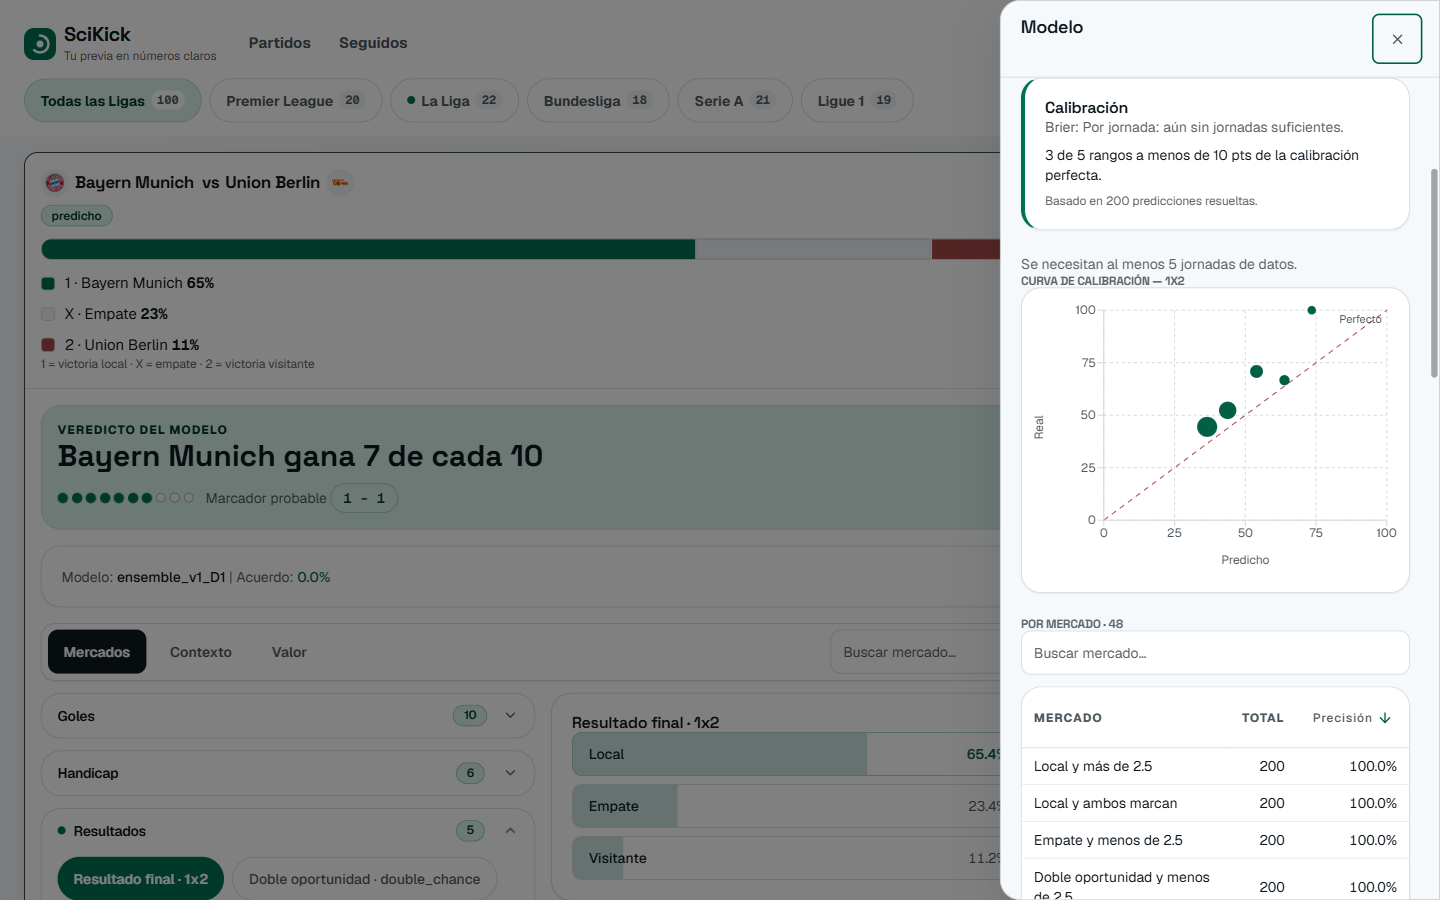
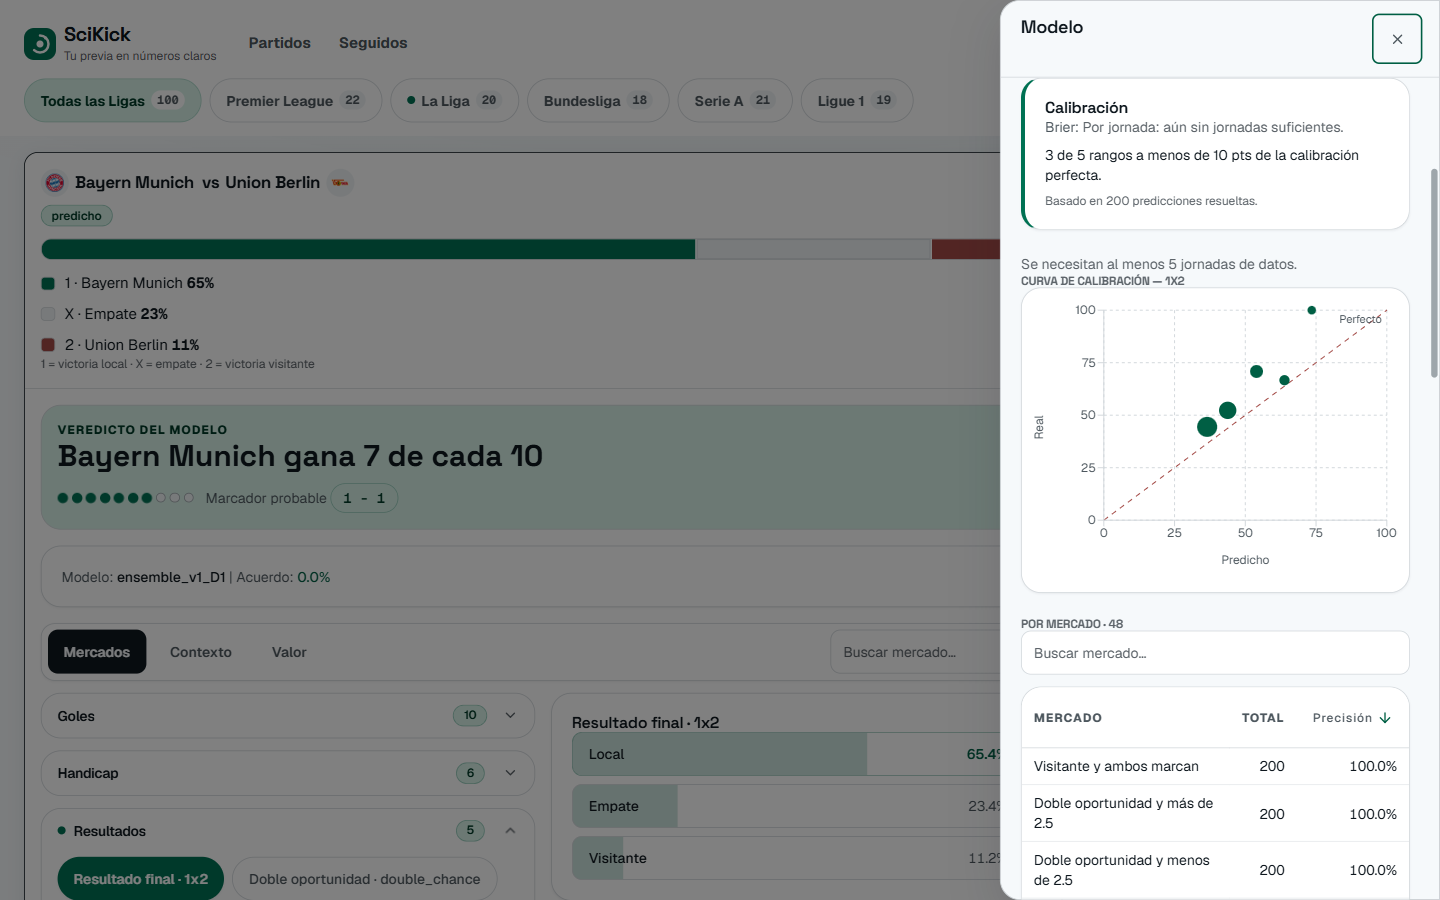
docs(readme): refresh counts, model note, no roadmap, current shots

diff --git a/README.md b/README.md
@@ -25,7 +25,7 @@ SciKick is an **analytical instrument, not a betting tool**. It answers "who win
 |---|---|---|---|---|
 | 0.596 | 0.527 | 0.470 | 0.626 | 0.603 |
 
-Small test sets (27–37 matches) — judge trends over cycles, see `docs/retrain.md`. Scorer: Understat xG90 with position shrinkage and a minutes gate that scales early season.
+Small test sets (27–37 matches) — judge trends over cycles, see `docs/retrain.md`. Scorer: Understat xG90 with position shrinkage and a minutes gate that scales early season. Served predictions carry the evaluated blend (`blend_applied`), never Dixon-Coles alone.
 
 ## How it works
 
@@ -46,7 +46,7 @@ FastAPI + SQLite (`GET /fixtures` with `upcoming` filter, `/predict/{id}`, `POST
 
 ## Health
 
-- **Tested**: 309 backend tests / 47 files (pytest) + 213 frontend tests / 28 files (vitest); `oxlint` + `vite build` green on every PR via split CI.
+- **Tested**: 362 backend tests / 52 files (pytest) + 226 frontend tests / 33 files (vitest); `oxlint` + `vite build` green on every PR via split CI.
 - **Reproducible**: every train persists params, strengths and metrics (`data/runs/<league>/`); monthly ops in `docs/retrain.md`. CPU-only, free-tier sources.
 
 ## Quick start
@@ -67,7 +67,7 @@ cd frontend; npm ci; npm run dev      # http://localhost:5173
 ```
 app/          — config, db + migrations, ingestion, features, models, api, players
 frontend/src/ — api clients, feed/match components, ui primitives, i18n EN/ES
-migrations/   — numbered SQL (001–008) via PRAGMA user_version
+migrations/   — numbered SQL (001–009) via PRAGMA user_version
 docs/         — retrain.md (monthly ops), screenshots/
 ```
 
@@ -93,15 +93,7 @@ cd frontend; npm run lint; npm test; npm run build
 - **No confirmed lineups** (needs API-Football Pro) — scorer projects from minutes and says so; no transfers, no in-play.
 - **Early-season noise**: edges above +100% treated as bad data; calibration needs 30+ resolved predictions.
 - **Stored odds are best-per-outcome**, possibly split across shops — a +EV set may not be buyable in one place.
-- **Display data**: some canonicals lack accents (`Espanol`); crests backfill from the next sync.
-
-## Roadmap
-
-- Display-name mapping for accent-less canonicals.
-- Hosted backend (frontend is Vercel-ready via `VITE_API_URL`).
-- Quieter value prefetch (stop 404-chasing fixtures without stored odds).
-- +EV micro-glossary for first-time users.
-- Weekly review loop for atypical stored odds.
+- **Display data**: canonicals render with accents mapped (`Espanol` → `Español`); crests backfill from the next sync.
 
 ## License
 
